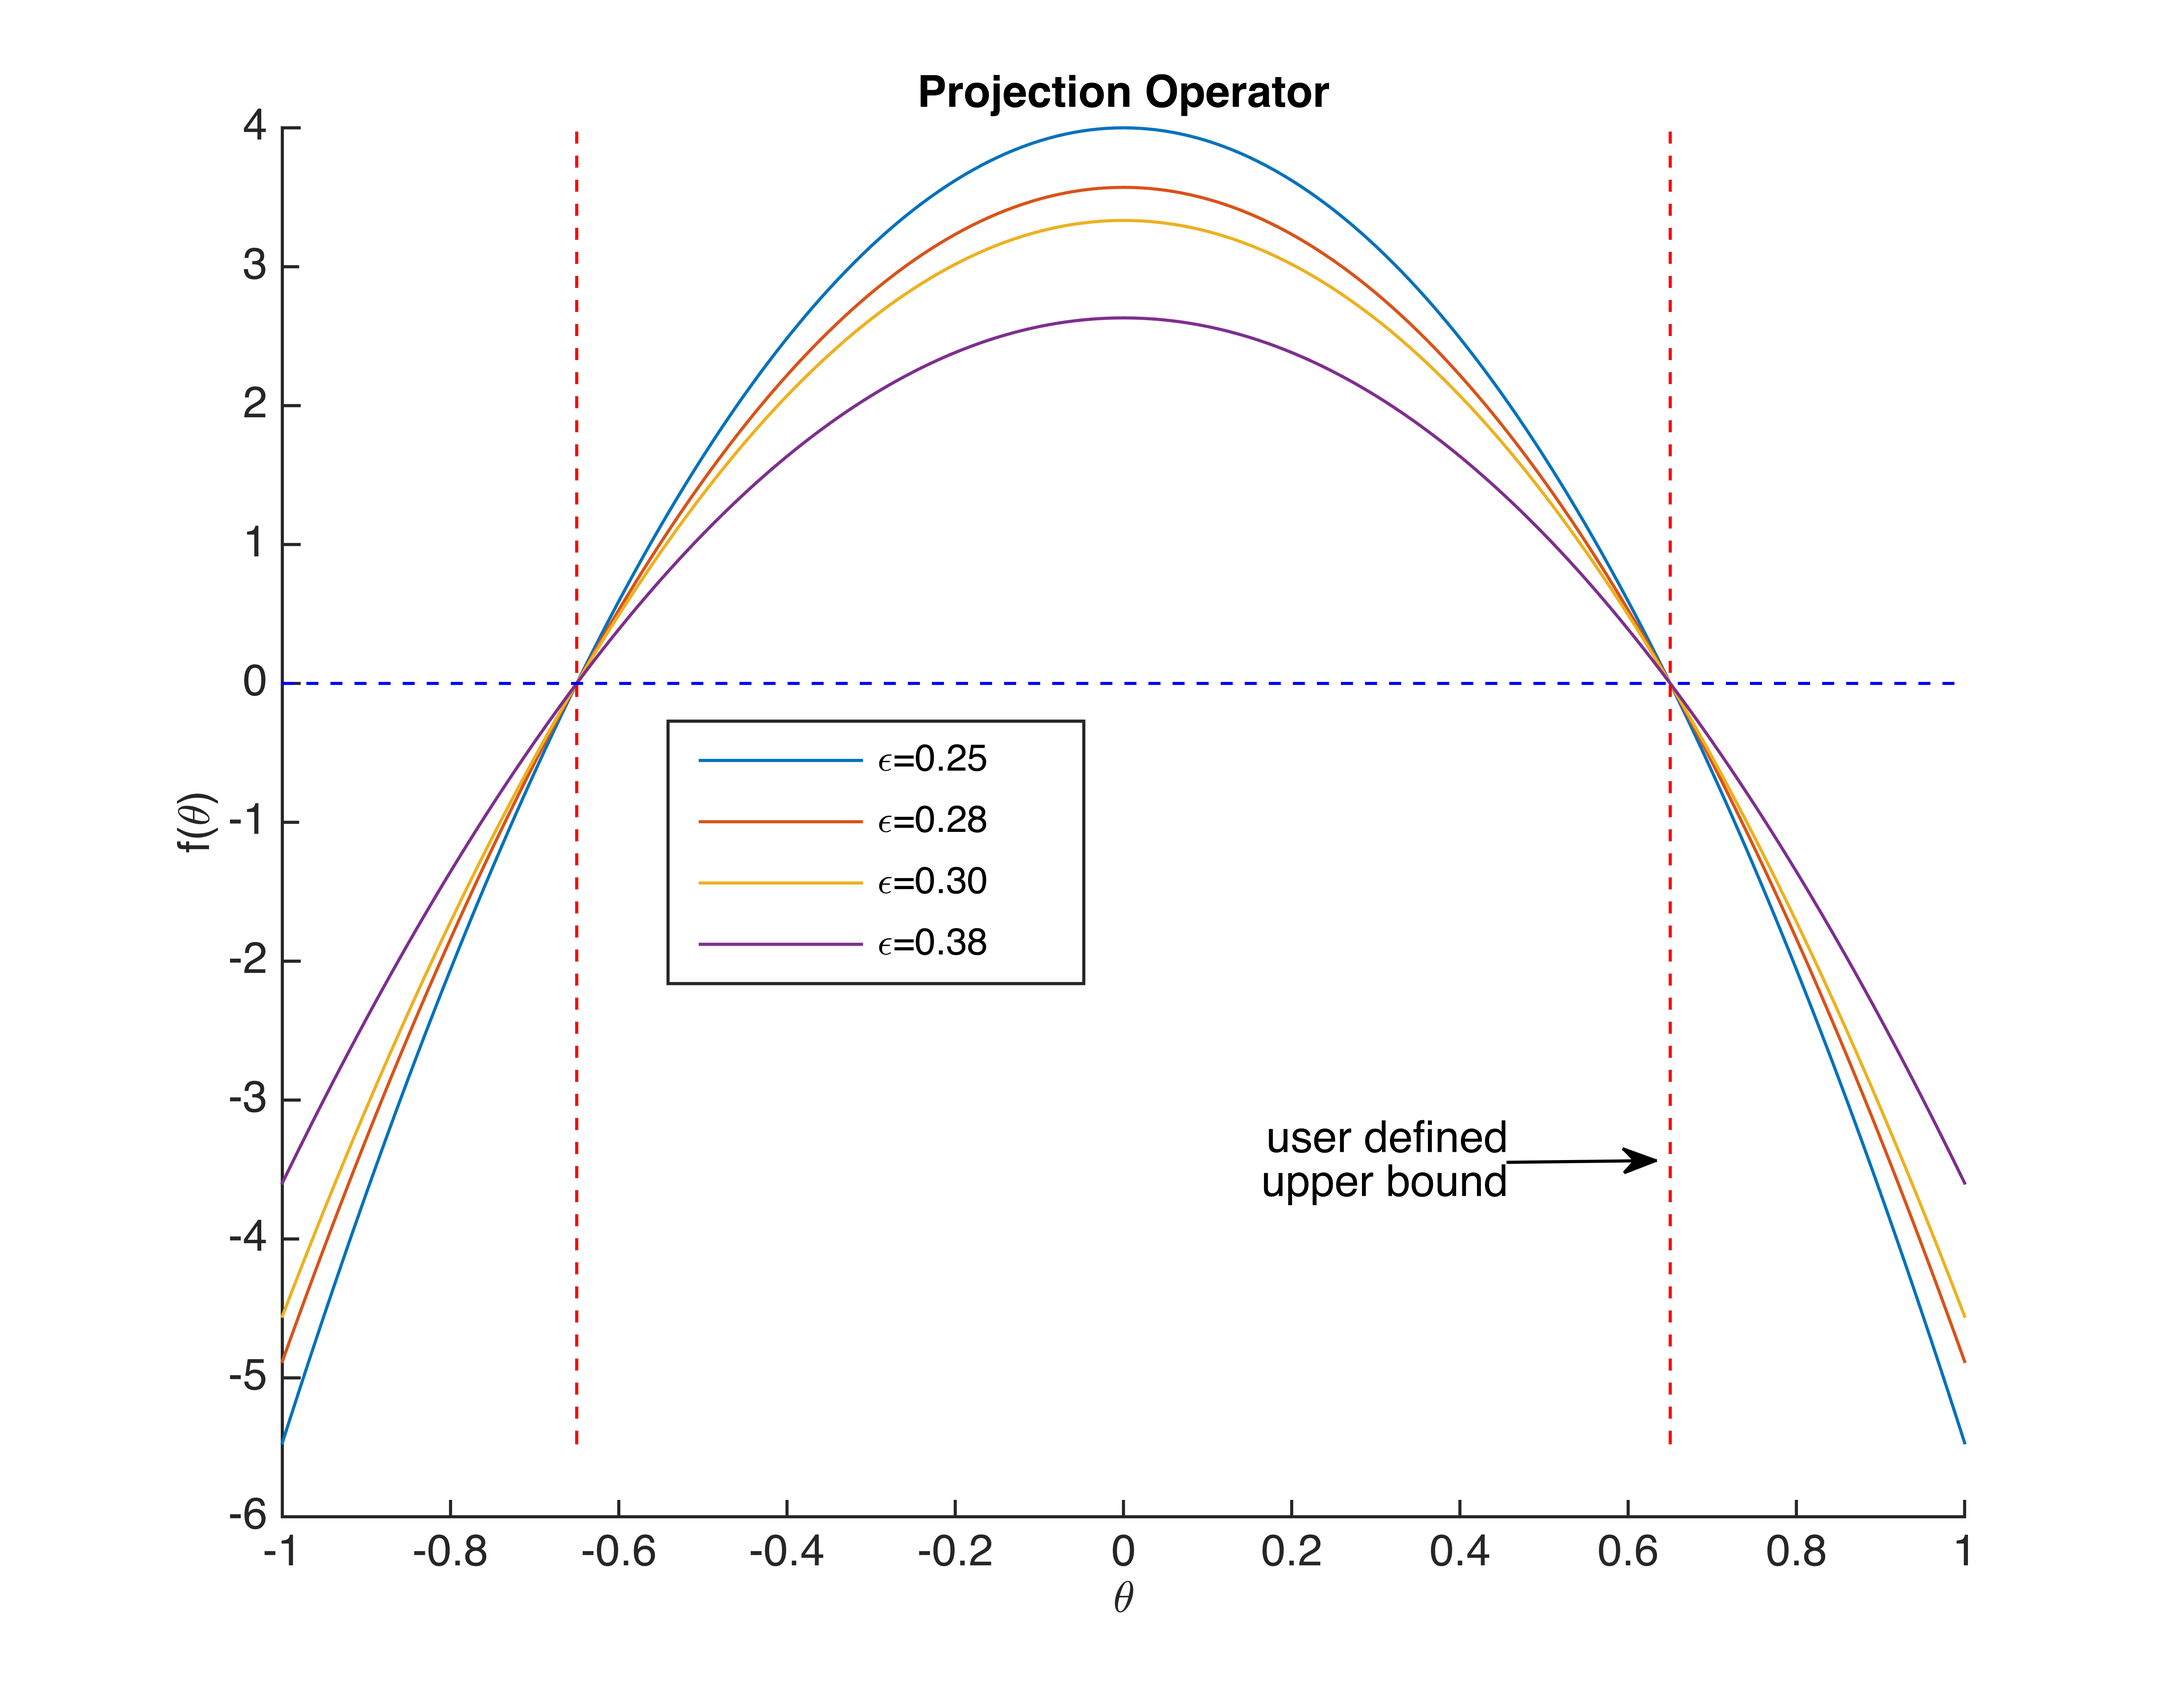
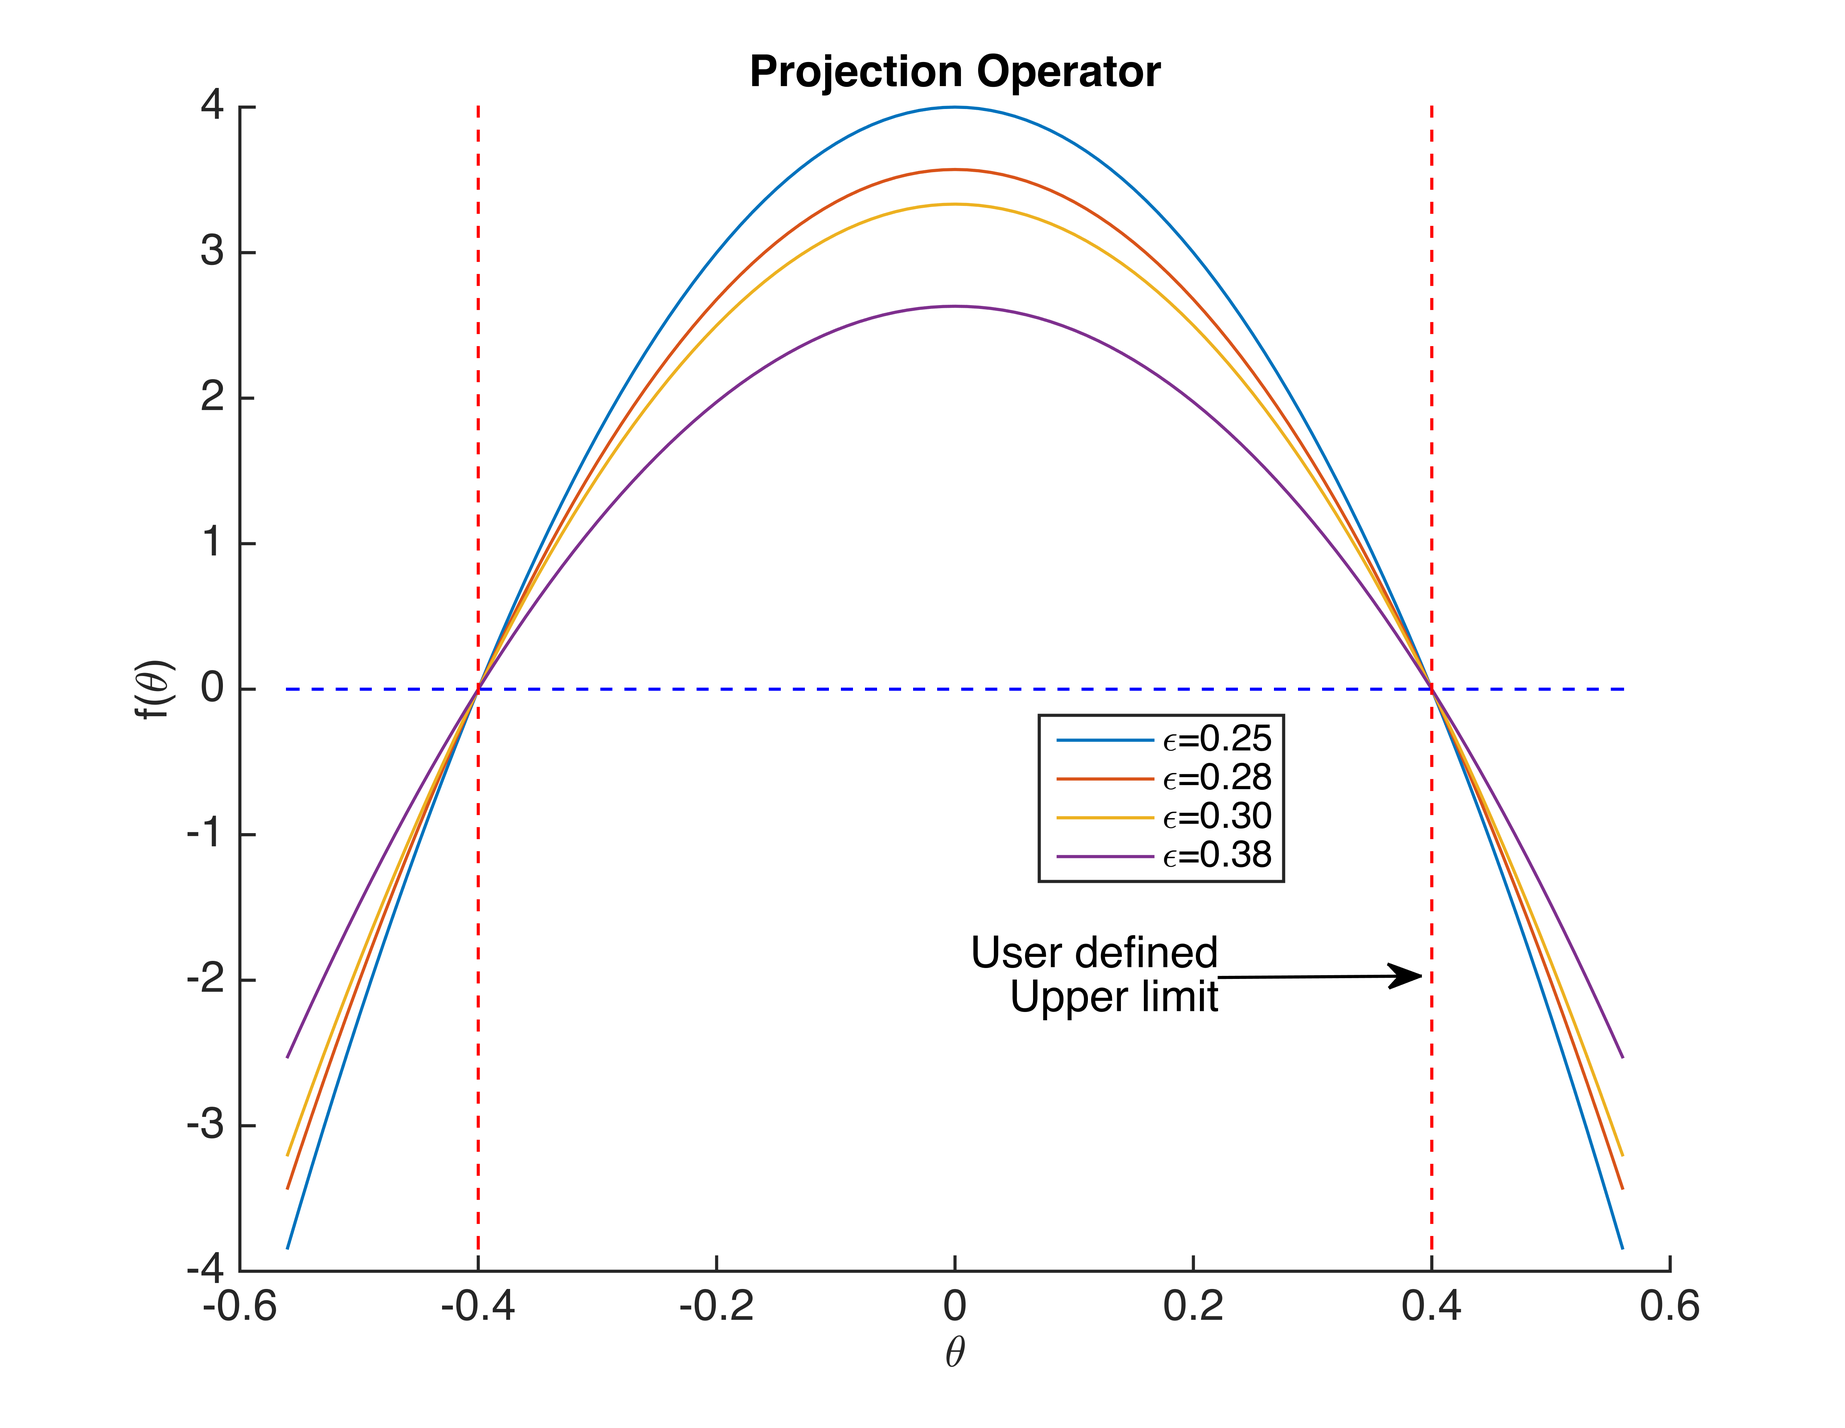
Appendix A: Fixed shifted Projection equation

diff --git a/appendix1.tex b/appendix1.tex
@@ -31,10 +31,10 @@ There may exists systems which need to have projection bounds which are not symm
 \newline
 where $\epsilon>0$,
 \begin{equation}\label{eq:parabolic_operator_offset}
-	f(\theta)=-\frac{(\theta_{\text{min}}-\theta)(\theta_{\text{max}}-\theta)}{\epsilon}\\
+	f(\theta)=-\frac{4(\theta_{\text{min}}-\theta)(\theta_{\text{max}}-\theta)}{\epsilon(\theta_{\text{max}}-\theta_{\text{min}})^2}\\
 \end{equation}
 \begin{equation}
-	\nabla f^\top=\frac{\theta_{\text{min}}+\theta_{\text{max}}-2\theta}{\epsilon}
+	\nabla f^\top=\frac{4(\theta_{\text{min}}+\theta_{\text{max}}-2\theta)}{\epsilon(\theta_{\text{max}}-\theta_{\text{min}})^2}
 \end{equation}
 
 
@@ -55,8 +55,10 @@ float theta_max,float theta_min)
 {
 	
 	// Calculate convex function
-	float f_theta = -(theta_min-theta)*(theta_max-theta)/epsilon;
-	float f_theta_dot = (theta_min+theta_max-(2*theta))/epsilon;	
+	float f_theta = (-4*(theta_min-theta)*(theta_max-theta))
+	/(epsilon*(theta_max-theta_min)^2);
+	float f_theta_dot = (4*(theta_min+theta_max-(2*theta)))
+	/(epsilon*(theta_max-theta_min)^2);	
 
 	float projection_out = y;
 

diff --git a/chapter4.tex b/chapter4.tex
@@ -19,7 +19,7 @@ The large blunt nose provides adequate space for two 2,200 mAh (12.6volts) lithi
 
 \begin{figure}[!h]
  \centering
-  \includegraphics[width=0.50\textwidth]{spear_cargo.png}
+  \includegraphics[width=0.6\textwidth]{spear_cargo.png}
   \caption{Spear Cargo Capacity}
   \label{fig:spear_cargo}
 \end{figure}
@@ -28,7 +28,7 @@ This plane was constructed out of craft foam board.  The plans were downloaded f
 
 \begin{figure}[!h]
  \centering
-  \includegraphics[width=0.65\textwidth]{spear_build.jpg}
+  \includegraphics[width=0.6\textwidth]{spear_build.jpg}
   \caption{Spear Build Process}
   \label{fig:spear_build}
 \end{figure}
